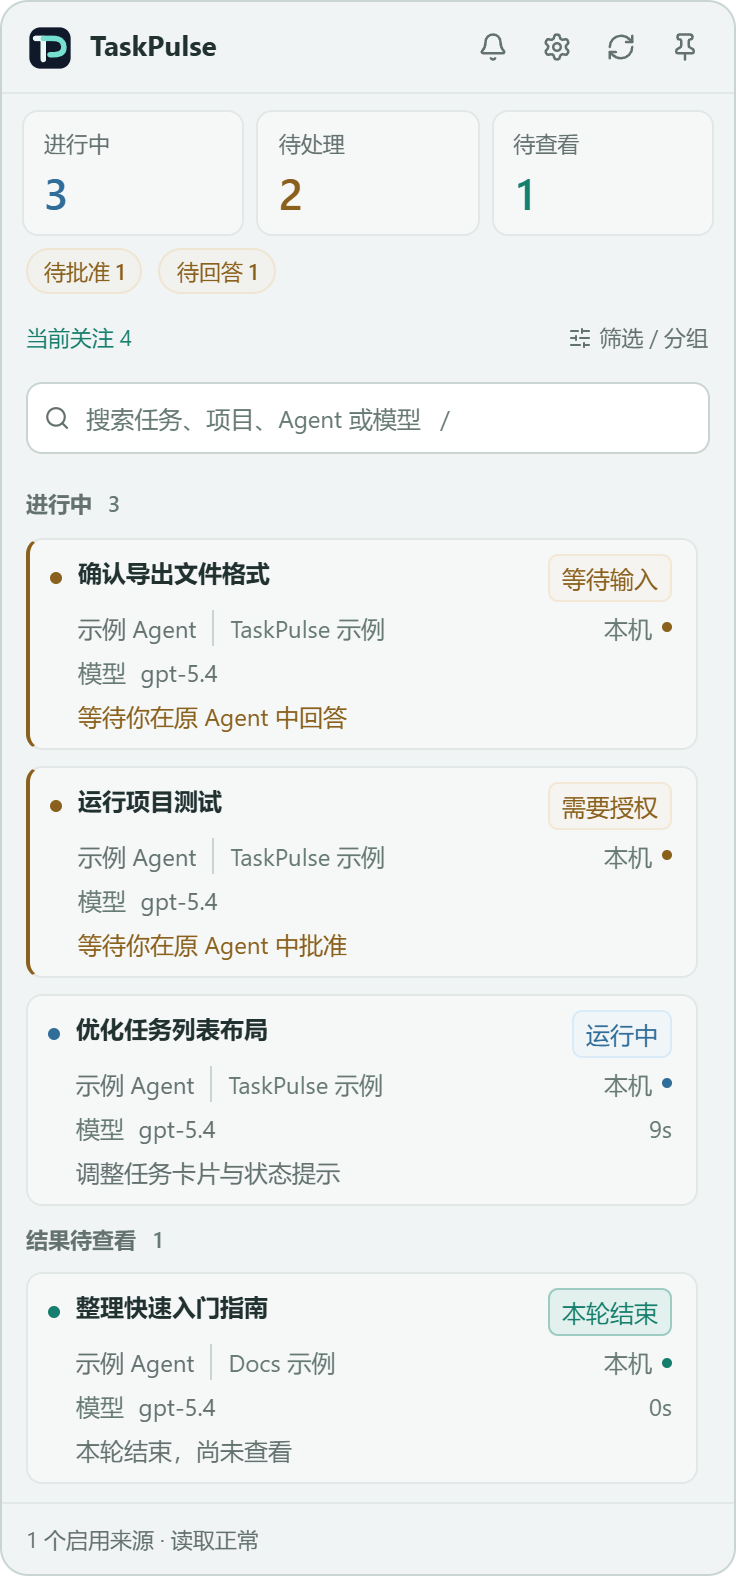
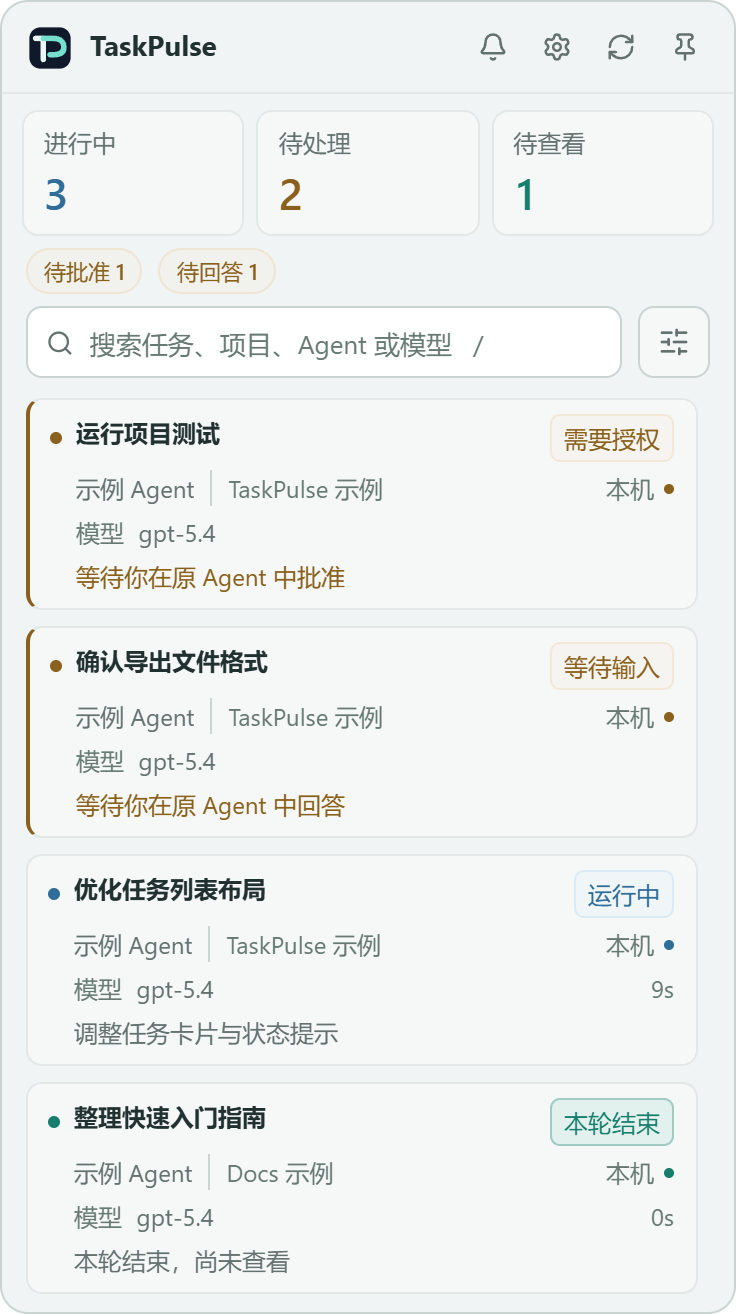
Refresh native UI acceptance and README screenshots

diff --git a/tests/native/native-dashboard-smoke.ts b/tests/native/native-dashboard-smoke.ts
@@ -245,8 +245,10 @@ accept_since_ms=${now}`:''}`).join('\n')}
   await root.wait(`${ongoing}===2`);
   assert.ok((await root.invoke('get_agents')).some((t:any)=>t.id==='codex:public-good'&&t.status==='running'&&!t.stale));
   await ui.evaluate(`document.querySelector('.settings-nav a[href="#sources"]').click()`);
-  const readState=`document.querySelector('[data-source-id="codex"] .read-state')`;
-  await ui.wait(`${readState}?.textContent?.includes('Some sessions need attention')`);
+  await ui.wait(`!!document.querySelector('.ms-tabs button')`);
+  await ui.evaluate(`document.querySelector('.ms-tabs button:first-child').click()`);
+  const readState=`document.querySelector('[data-agent-kind="codex"] .agent-row small')`;
+  await ui.wait(`${readState}?.textContent?.includes('Some data needs refreshing')`);
   // The source badge has its own receiver and clock. Observe it independently
   // of the dashboard so a steady headline cannot hide a settings regression.
   await ui.evaluate(`(()=>{const badge=${readState};window.__sourceReadSamples=[badge.textContent];window.__sourceReadObserver=new MutationObserver(()=>window.__sourceReadSamples.push(badge.textContent));window.__sourceReadObserver.observe(badge,{childList:true,characterData:true,subtree:true});})()`);
@@ -265,7 +267,7 @@ accept_since_ms=${now}`:''}`).join('\n')}
   assert.equal(new Set(attempts).size,8,'Eight distinct native collection attempts are required');
   assert.ok(ongoingSamples.length>0);
   assert.ok(ongoingSamples.every(count=>count===2),`Running count flickered between clock ticks: ${JSON.stringify(ongoingSamples)}`);
-  assert.ok(sourceReadSamples.every(label=>label.includes('Some sessions need attention')),`Source badge flickered between clock ticks: ${JSON.stringify(sourceReadSamples)}`);
+  assert.ok(sourceReadSamples.every(label=>label.includes('Some data needs refreshing')),`Source badge flickered between clock ticks: ${JSON.stringify(sourceReadSamples)}`);
   checks.push('two running sessions stay visible across eight partial-source collections between UI clock ticks');
   checks.push('settings partial-source badge stays stable across the same eight collections');
   // Once that session itself is no longer verified, its previous proof must
@@ -273,15 +275,15 @@ accept_since_ms=${now}`:''}`).join('\n')}
   await rename(rollout,join(codex,'moved-good.jsonl'));
   await root.wait(`__TAURI_INTERNALS__.invoke('get_providers').then(p=>p.some(p=>p.provider==='codex'&&p.status==='degraded'&&!p.task_observations?.['codex:public-good']))`);
   await root.wait(`${ongoing}===1`);
-  await ui.wait(`${readState}?.textContent?.includes('Some sessions need attention')`);
+  await ui.wait(`${readState}?.textContent?.includes('Some data needs refreshing')`);
   checks.push('partial Codex collection preserves an independently verified ongoing task; missing task proof is revoked');
   await rename(join(codex,'sessions/rollout-public-second.jsonl'),join(codex,'moved-second.jsonl'));
   await root.wait(`__TAURI_INTERNALS__.invoke('get_providers').then(p=>p.some(p=>p.provider==='codex'&&p.status==='degraded'&&!Object.keys(p.task_observations??{}).length))`);
   await root.wait(`${ongoing}===0`);
-  await ui.wait(`${readState}?.textContent?.includes('Source access failed')`);
+  await ui.wait(`${readState}?.textContent?.includes('Read error')`);
   await rename(badRollout,join(codex,'moved-bad.jsonl'));
   await root.wait(`__TAURI_INTERNALS__.invoke('get_providers').then(p=>p.some(p=>p.provider==='codex'&&p.status==='connected'))`);
-  await ui.wait(`${readState}?.textContent?.includes('Source access healthy')`);
+  await ui.wait(`${readState}?.textContent?.includes('Reads healthy')`);
   checks.push('source badge still reports unavailable session evidence and real source recovery');
   if(focusTarget){
     assert.equal(await root.invoke('open_task',{id:'file:pinned'}),'focus_unavailable');
@@ -290,8 +292,10 @@ accept_since_ms=${now}`:''}`).join('\n')}
     assert.equal(selected.unread,true,'Falling back to details must preserve unread state');
     checks.push('expired native window reports failed focus and opens task details without marking it read');
   }
-  await ui.wait(`document.querySelector('[data-source-id="scanner"]')?.textContent.includes('No data detected')`);
-  checks.push('healthy generic source without an event reports no data, sessions or current tasks');
+  assert.ok(await ui.evaluate(`!document.querySelector('[data-agent-kind="scanner"], [data-saved-source="scanner"]')`));
+  const generic=(await root.invoke('get_dashboard_snapshot')).view.sources.find((row:any)=>row.id==='scanner');
+  assert.deepEqual(generic,emptySource);
+  checks.push('hidden generic source remains healthy without falsely reporting data, sessions or tasks');
   const stampNow=Date.now();
   await Bun.write(join(home,'blocker.pending'),JSON.stringify({v:2,name:'Public request fixture',status:'needs-input',turn_key:'public-blocker',
     waiting_reason:'question',input_request_id:'public-question',execution_activity_at:stampNow,confidence:'hook',cli:'codex'}));
@@ -321,9 +325,9 @@ accept_since_ms=${now}`:''}`).join('\n')}
   checks.push('a vanished CLI-tagged request becomes uncertain in the dashboard and inbox while its actual file reader stays healthy');
   const currentSettings=await ui.invoke('get_monitoring_settings');
   await ui.invoke('save_monitoring_settings',{expected:currentSettings,settings:{...currentSettings,sources:[]}});
-  await root.wait(`document.querySelector('.dashboard footer')?.textContent.includes('No enabled sources')`);
-  assert.equal((await root.invoke('get_dashboard_snapshot')).view.sources.length,0);
-  checks.push('zero enabled sources is explicit in the native dashboard');
+  await root.wait(`__TAURI_INTERNALS__.invoke('get_dashboard_snapshot').then(s=>s.view.sources.length===0)`);
+  assert.ok(await root.evaluate(`!document.querySelector('.dashboard > footer')`));
+  checks.push('zero enabled sources removes the sources from the snapshot without a dashboard footer');
   assert.deepEqual(errors,[]);
   assert.equal(await fileSha256(exe),executableSha256);
   assert.equal(await fileSha256(original),executableSha256);

diff --git a/tests/native/native-settings-smoke.ts b/tests/native/native-settings-smoke.ts
@@ -828,7 +828,9 @@ accept_since_ms=0
   assert.equal(hermesResult.turn_key,runningHermes.turn_key);
   assert.ok(hermesResult.finished_at);
   const hermesCard=JSON.stringify(`[data-task-id="${hermesResult.id}"]`);
-  await root.wait(`document.querySelector(${hermesCard})?.closest('section')?.querySelector('h2')?.textContent.includes('Unviewed results')`);
+  await root.wait(`document.querySelector(${hermesCard})?.closest('.task-item')?.dataset.tone==='unread'`);
+  await root.evaluate(`document.querySelector('.counts [data-tone="unread"]').click()`);
+  await root.wait(`document.querySelector('.counts [data-tone="unread"]')?.getAttribute('aria-pressed')==='true' && !!document.querySelector(${hermesCard})`);
   const hermesNotice=await connect(await tab('/notice'));
   await hermesNotice.wait(`document.querySelector('.notice-window .heading')?.textContent==='Example session'`);
   const shownHermes=await hermesNotice.invoke('get_task_notice');
@@ -868,6 +870,6 @@ accept_since_ms=0
   root=await connect(await tab(''));await root.wait(`!!document.querySelector('.dashboard')`);
   const restored=await root.invoke('get_monitoring_settings');assert.equal(restored.preferences.language,'en');assert.equal(restored.preferences.theme,'dark');assert.equal(restored.preferences.show_model,false);assert.equal(restored.preferences.task_font_size,14);assert.deepEqual(restored.sources[0].projects,['protected-project']);
   assert.deepEqual(errors,[]);
-  await Bun.write(join(owned,'result.json'),JSON.stringify({passed:true,firstPaint,generalSizing,...buildEvidence,platform:{version:osRelease(),arch:arch(),browserProduct},resourceSamples,resourceSampling,resourceScope:sampleResources?'Isolated Windows settings: root and live descendants; working sets sum shared pages; CPU is cumulative for live processes':null,checks:['panel gear and default settings open General; explicit sources routing preserved','invalid section rejected','panel gear and tray command restore minimized settings and bring the existing window forward',...(!sourcesOnly?['same-monitor drag does not snap back','native monitor transitions fit work area']:[]),'catalog-driven local Agents and collapsed advanced settings','three-step SSH wizard with independent SSH/data states','management-only SSH permission and real unreachable-host probe','bilingual light/dark native layout with internal scroll and sticky footer','non-Codex local source save preserves ID and disabled state','project link delegates to OS and popup permission is denied','two saved SSH source instances','duplicate source rejected','initial preferred size across six sections; active native maximize/restore and maximized warm reuse','catalog and process capability','isolated startup rejection','source draft retained across navigation and preferences','language/theme/font size synchronized and persisted across native windows','native dirty-close confirmation','cancel source draft','apply source scope preserves preferences','failed disk write restores control and settings','unknown config preserved','restart restores preferences and scope'],windowSizes,startup,errors,nativeMonitors:nativeMonitors.length,movementChecks},null,2));
+  await Bun.write(join(owned,'result.json'),JSON.stringify({passed:true,firstPaint,generalSizing,...buildEvidence,platform:{version:osRelease(),arch:arch(),browserProduct},resourceSamples,resourceSampling,resourceScope:sampleResources?'Isolated Windows settings: root and live descendants; working sets sum shared pages; CPU is cumulative for live processes':null,checks:['panel gear and default settings open General; explicit sources routing preserved','invalid section rejected','panel gear and tray command restore minimized settings and bring the existing window forward',...(!sourcesOnly?['same-monitor drag does not snap back','native monitor transitions fit work area']:[]),'catalog-driven native Agents without legacy panels; hidden source configuration remains intact','three-step SSH wizard with independent SSH/data states','management-only SSH permission and real unreachable-host probe','bilingual light/dark native layout with internal scroll and sticky footer','non-Codex local source save preserves ID and disabled state','project link delegates to OS and popup permission is denied','two saved SSH source instances','duplicate source rejected','initial preferred size across six sections; active native maximize/restore and maximized warm reuse','catalog and process capability','isolated startup rejection','source draft retained across navigation and preferences','language/theme/font size synchronized and persisted across native windows','native dirty-close confirmation','cancel source draft','apply source scope preserves preferences','failed disk write restores control and settings','unknown config preserved','restart restores preferences and scope'],windowSizes,startup,errors,nativeMonitors:nativeMonitors.length,movementChecks},null,2));
   console.log('Native settings acceptance passed, including cold/warm routing, source drafts and two SSH sources.');
 });

diff --git a/tests/native/ui-smoke.ts b/tests/native/ui-smoke.ts
@@ -50,7 +50,7 @@ try {
   await waitFor(`document.querySelectorAll('.task-row').length===28`);
   const layout=await evaluate(`(()=>{const p=document.querySelector('.dashboard'),m=document.querySelector('main');return {width:p.getBoundingClientRect().width,height:p.getBoundingClientRect().height,scroll:m.scrollHeight>m.clientHeight,overflow:document.documentElement.scrollWidth>440,errors:[...document.querySelectorAll('[role=alert]')].map(n=>n.textContent),rows:document.querySelectorAll('.task-row').length};})()`);
   if(layout.width>440||layout.height>720||!layout.scroll||layout.overflow||layout.errors.length)throw Error(JSON.stringify(layout));
-  if(!await evaluate(`document.querySelector('main h2')?.textContent.startsWith('进行中')`))throw Error('Ongoing tasks are not first');
+  if(!await evaluate(`document.querySelector('main .task-item')?.dataset.tone==='running'`))throw Error('Ongoing tasks are not first');
   await evaluate(`document.querySelector('[aria-label^="消息中心："]').click()`);
   await waitFor(`document.querySelector('.message-center')?.textContent.includes('验收：授权阻塞')`);
   await evaluate(`[...document.querySelectorAll('.message-center button')].find(b=>b.textContent==='重新打开提醒').click()`);
@@ -61,7 +61,7 @@ try {
   await evaluate(`(()=>{const s=document.querySelector('[aria-label="筛选项目"]');s.value=[...s.options].find(o=>o.value)?.value;s.dispatchEvent(new Event('change',{bubbles:true}));})()`);
   await evaluate(`__smokeStartProject()`);
   await waitFor(`document.querySelector('.outside-running')?.textContent.includes('1 个运行任务')`);
-  await waitFor(`document.querySelector('.filter-note')?.textContent.includes('项目：test-project')`);
+  await waitFor(`document.querySelector('[aria-label="筛选项目"]')?.selectedOptions[0].textContent.includes('test-project')`);
   await evaluate(`[...document.querySelectorAll('.counts button')].find(b=>b.textContent.trim().startsWith('进行中')).click()`);
   await waitFor(`document.querySelector('[data-task-id="test-new-project"]') && document.querySelectorAll('.task-row').length===28`);
   await clickDashboardFilter(evaluate,'.all-tasks');

diff --git a/tests/native/native-discovery-smoke.ts b/tests/native/native-discovery-smoke.ts
@@ -55,7 +55,7 @@ try{
   if(!other)throw Error('Requires a second enabled source for filter acceptance');
   await evaluate(`(()=>{const s=document.querySelector('[aria-label="筛选来源"]');if(!s)throw Error('Filter select not visible');s.value=${JSON.stringify(other.id)};s.dispatchEvent(new Event('change',{bubbles:true}));})()`);
   await waitFor(`!!document.querySelector('.outside-running')`);
-  await waitFor(`document.querySelector('.filter-note')?.textContent.includes(${JSON.stringify(other.name)})`);
+  await waitFor(`document.querySelector('[aria-label="筛选来源"]')?.value===${JSON.stringify(other.id)} && !!document.querySelector('.filter-toggle.active')`);
   await evaluate(`[...document.querySelectorAll('.counts button')].find(b=>b.textContent.trim().startsWith('进行中')).click()`);
   for(const task of running)await waitFor(`!!document.querySelector('[data-task-id='+CSS.escape(${JSON.stringify(task.id)})+']')`);
   await waitFor(`!document.querySelector('.outside-running')`);

diff --git a/.agents/skills/taskpulse-maintenance/references/platforms.md b/.agents/skills/taskpulse-maintenance/references/platforms.md
@@ -53,4 +53,4 @@ Opt-in WSL read-only smoke (Python 3 and a running distro required, default Ubun
 cargo test --manifest-path src-tauri/Cargo.toml --bin agent-tray live_wsl_codex_snapshot -- --ignored --nocapture
 ```
 
-Set `TASKPULSE_WSL_DISTRO` for another distro. `tests/native/native-wsl-codex-smoke.ts` validates actual source discovery, save, native session titles and isolated scopes with temporary WebView2 CDP, restoring settings by default.
+Set `TASKPULSE_WSL_DISTRO` for another distro. `tests/native/native-wsl-codex-smoke.ts` verifies native session titles and source identity over test-owned WebView2 CDP for an enabled WSL source in an isolated profile. It does not save settings.
